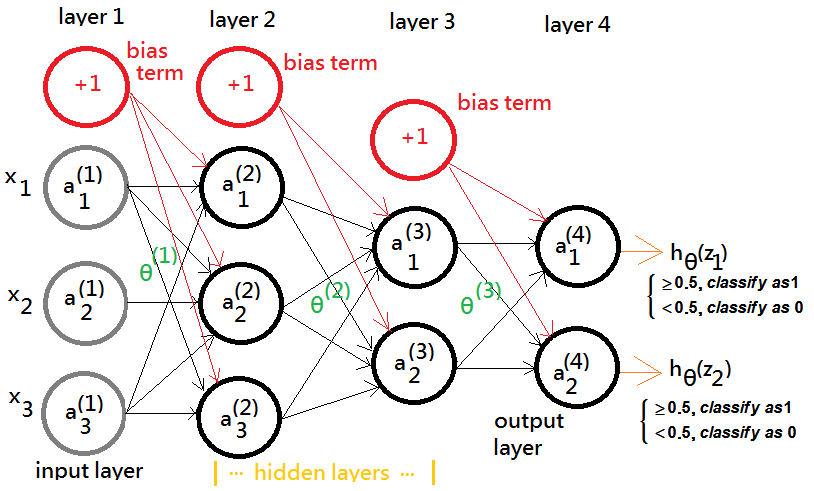
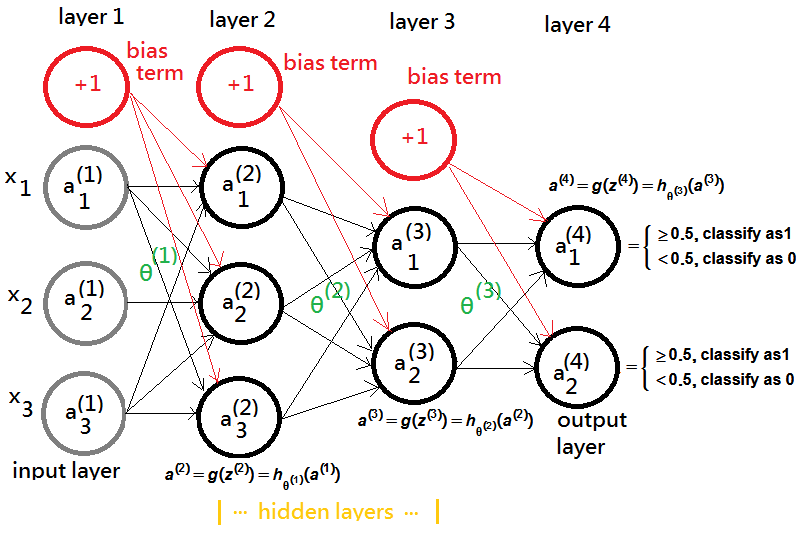
update _posts/2017-11-19-nn-feed-forward-propagation.md

diff --git a/_posts/2017-11-19-nn-feed-forward-propagation.md b/_posts/2017-11-19-nn-feed-forward-propagation.md
@@ -5,12 +5,15 @@ title: Neural Network Feedforward Propagation
 
 ## Neural Network Feedforward Propagation
 <p class="message">
-Neural network works as a whole to behave like a perceptron, the output from layer $j$ would be mapped by <font color="green">$\theta^{(j)}$</font> to the input of layer $j+1$.  The final output in last layer would then be transformed by 
-the logistic regression model to signal the identity of the target object. 
+Neural network works as a whole to behave like a perceptron, the output from layer $j$ would be mapped by <font color="green">$\theta^{(j)}$</font> to the input of layer $j+1$.  The final output in last layer would then be classified to 
+the identity of the target object. 
 </p>
 
 ### Neural Network Works by Feedforward Propagation
 >Recap the neural network model, note that the final identity from logistic regression model would be:
-$$h_\theta(z)=\left\{\begin{array}{l}\geq0.5,\;classify\;as1\\<0.5,\;classify\;as\;0\end{array}\right.$$
+$$\begin{array}{l}a^{(j+1)}=g(z^{(j+1)})=h_{\mathrm\theta^{(\mathrm j)}}(a^{(\mathrm j)})=\left\{\begin{array}{l}\geq0.5,\;\mathrm{classify}\;\mathrm{as}1\\<0.5,\;\mathrm{classify}\;\mathrm{as}\;0\end{array}\right.\\,where\;z=(\theta^{(j)})^t\cdot a^{(j)},\;g(z)=\frac1{1+e^{-z}}\\,j+1\;is\;the\;final\;layer\;index\end{array}$$
+<!-- $$h_\theta(z)=\left\{\begin{array}{l}\geq0.5,\;classify\;as1\\<0.5,\;classify\;as\;0\end{array}\right.$$ -->
 
 ![]({{ site.github.repo }}{{ site.baseurl }}/images/pic/2017-11-19-nn-forward-propagation.png "forward propagation")
+
+>
